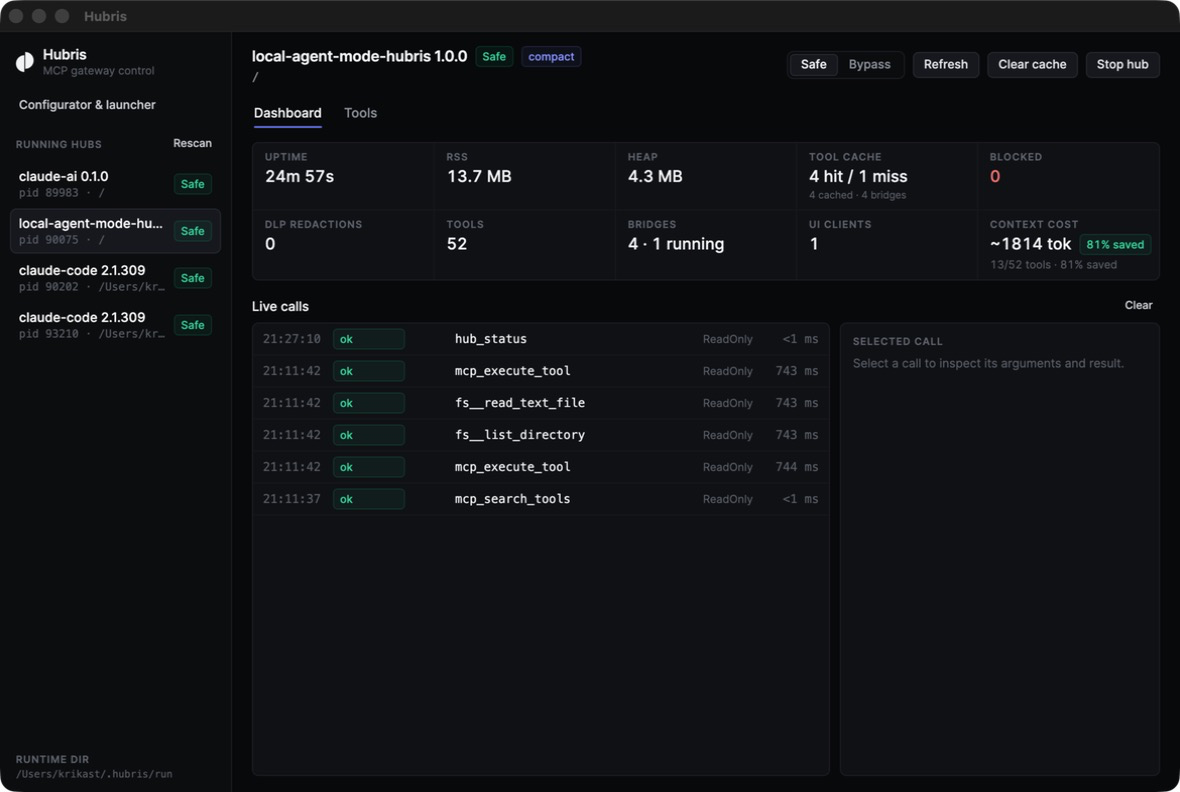
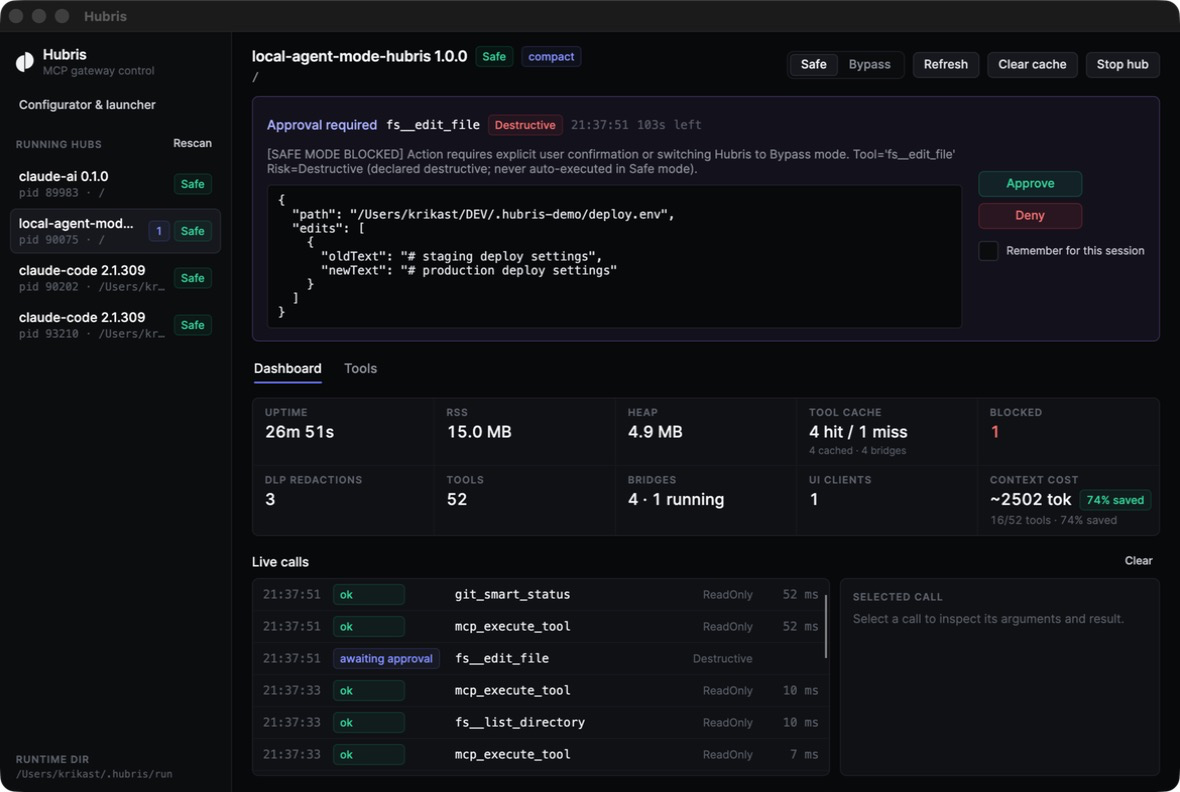
README: screenshot with a pending approval

diff --git a/README.md b/README.md
@@ -8,7 +8,7 @@ calls in Safe mode and asks you in a desktop app before letting them through.
 .NET 10, Native AOT, no reflection, no runtime to install. A desktop app (Avalonia) does configuration,
 takeover of existing client configs, live call view and approvals.
 
-![Hubris desktop app, dashboard of a running hub](docs/hubris-dashboard.png)
+![Hubris desktop app: a destructive call waiting for approval, DLP redactions and context cost on the dashboard](docs/hubris-dashboard.png)
 
 ## Numbers
 
